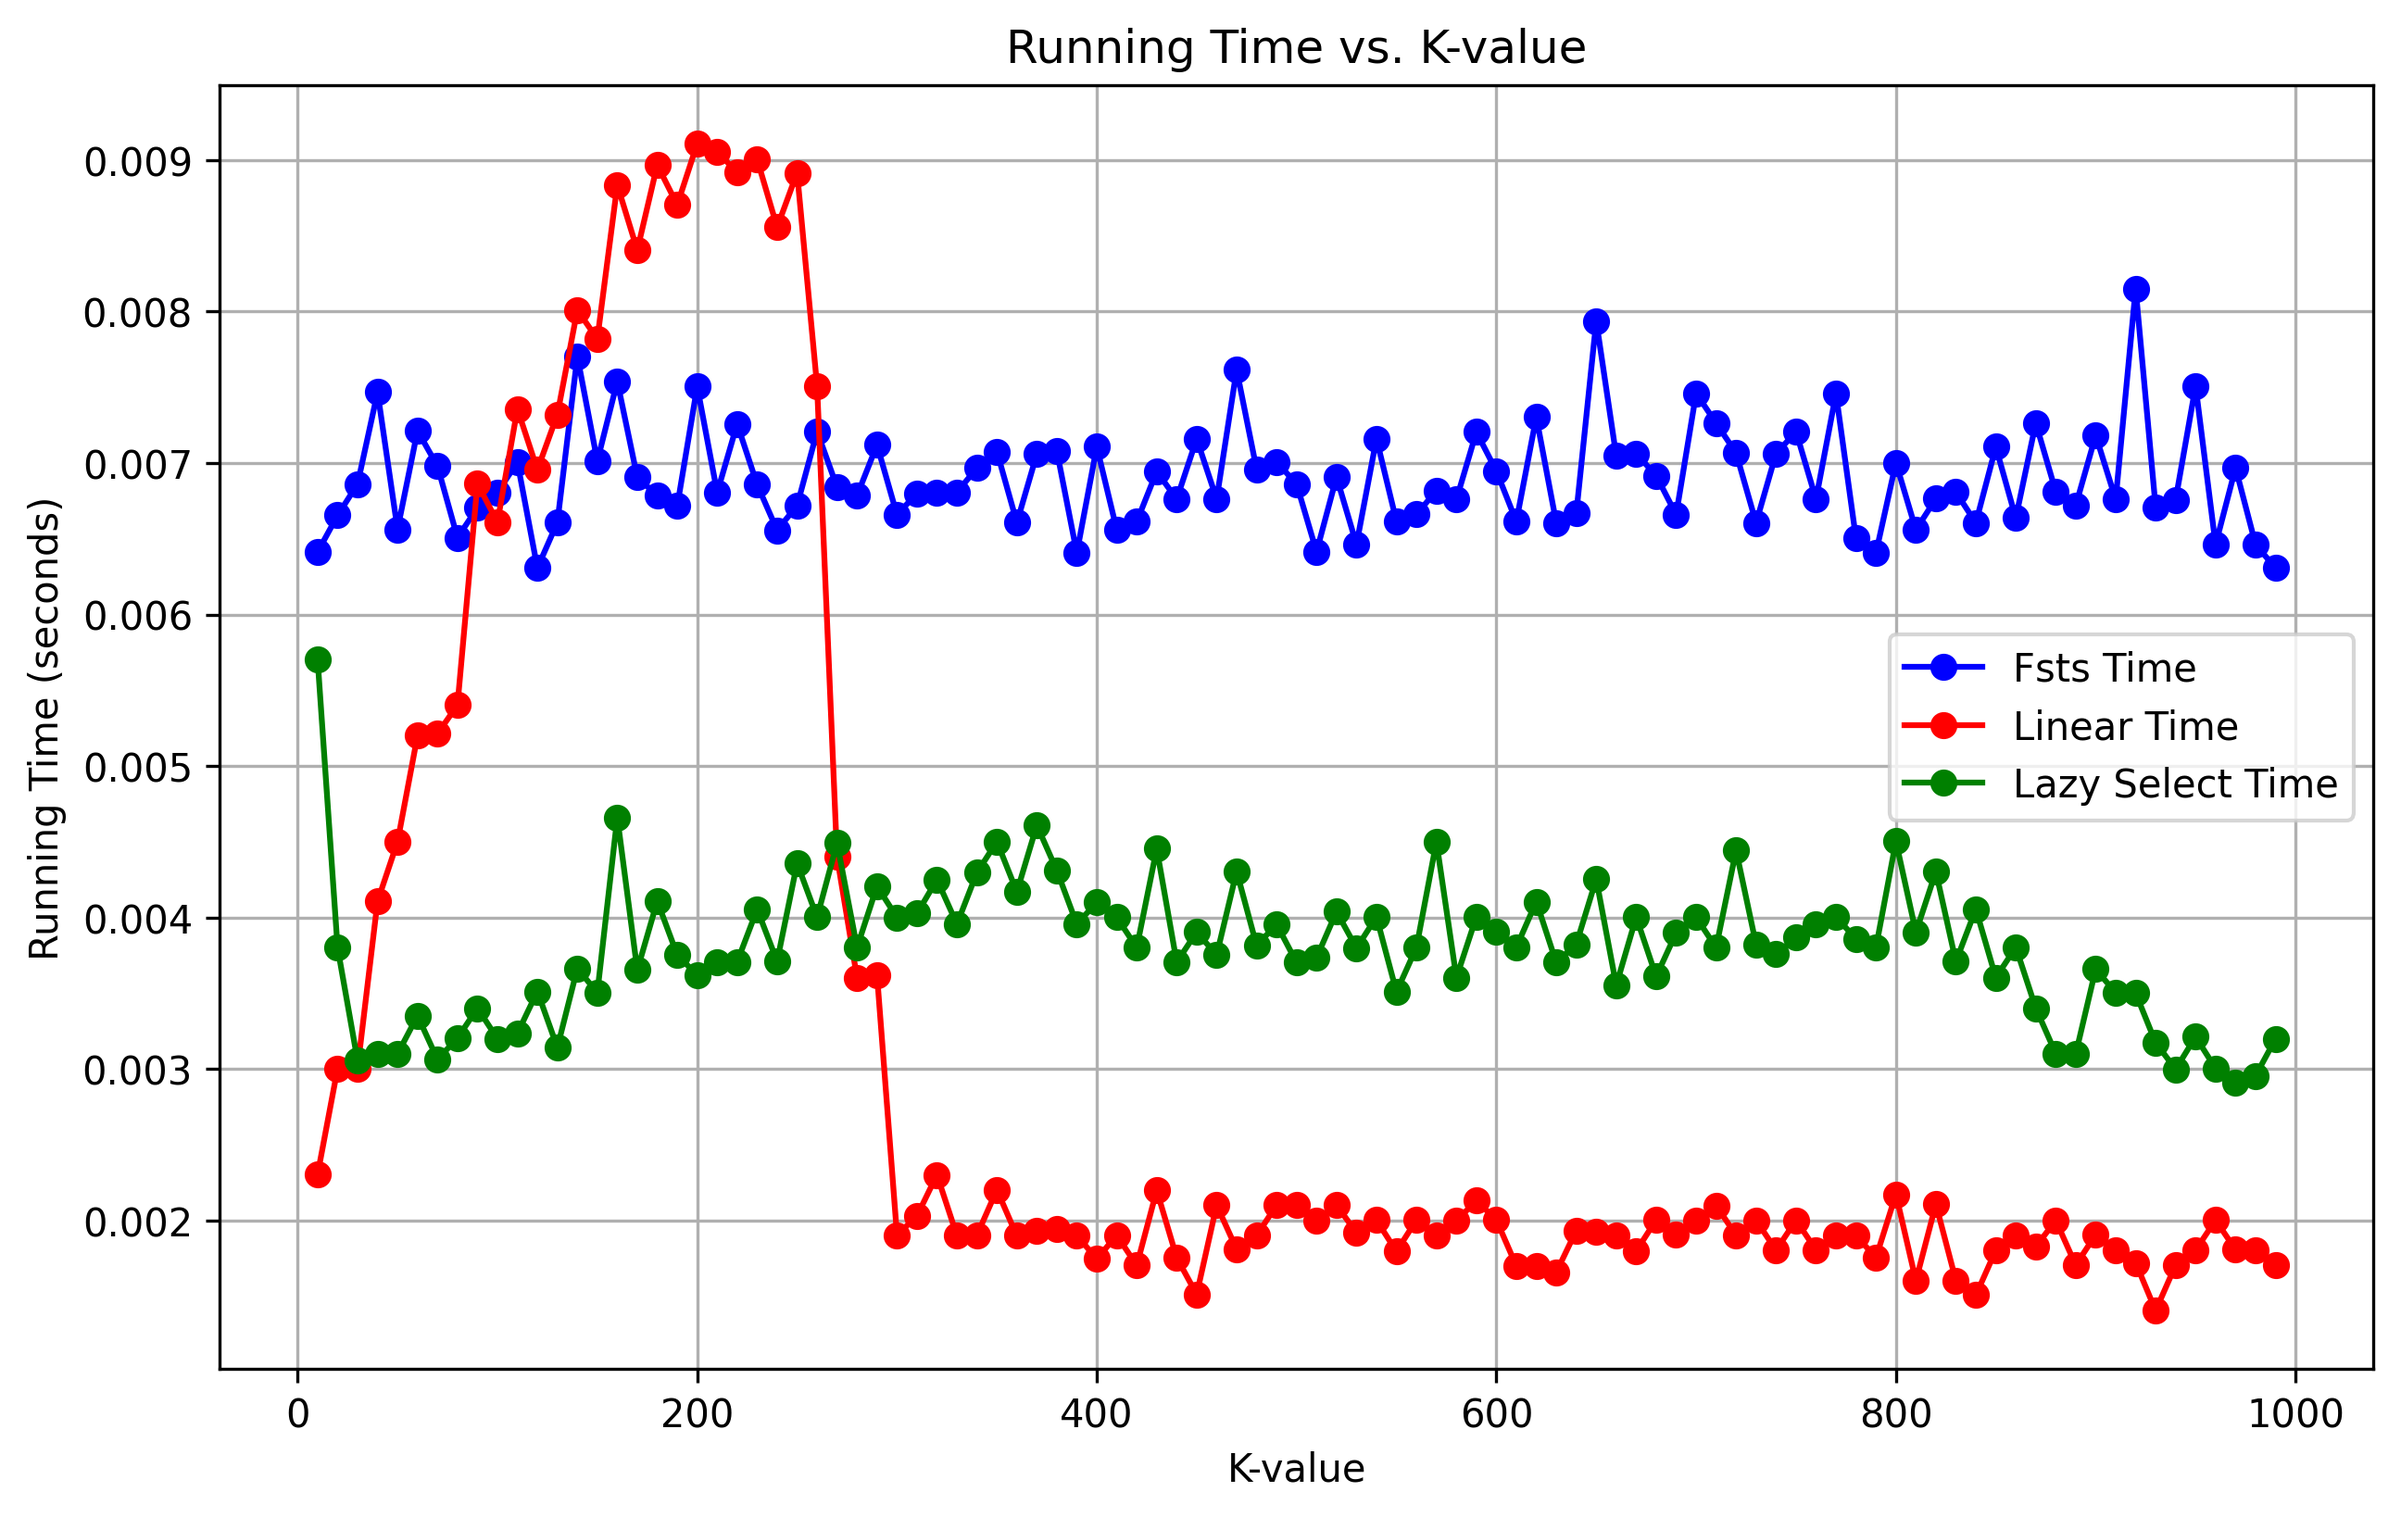
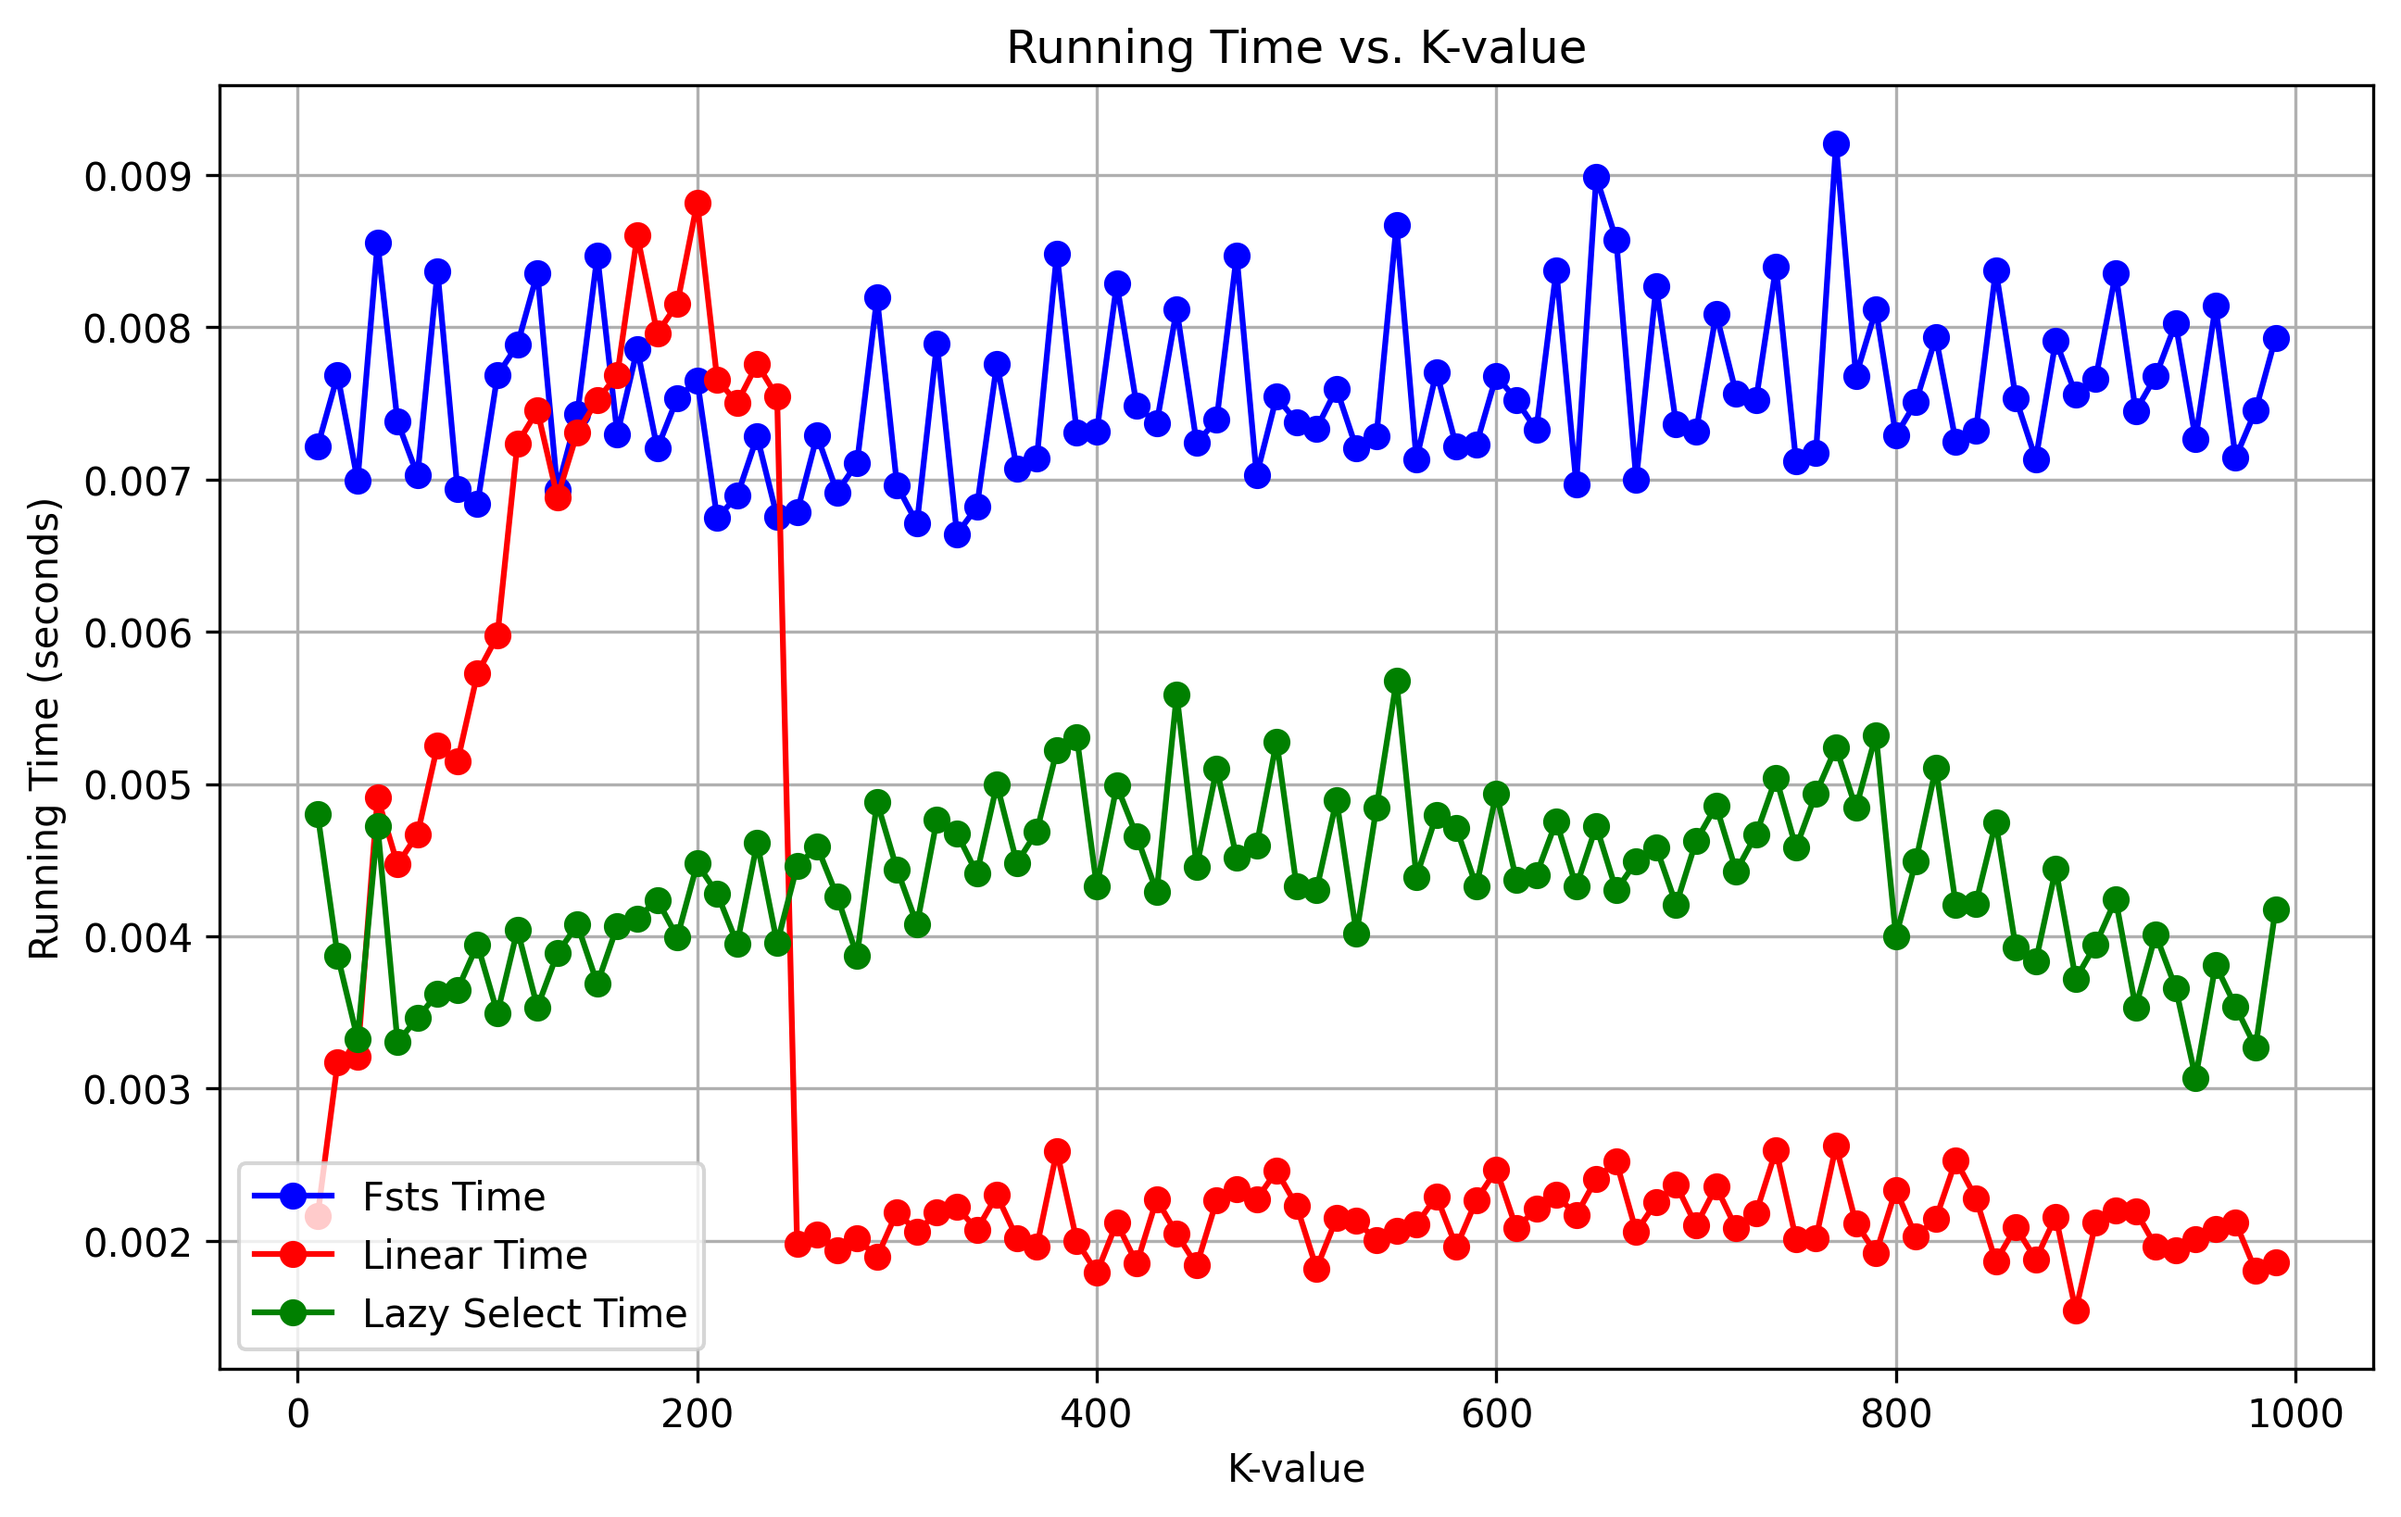
update

diff --git a/Lab2/createData.py b/Lab2/createData.py
@@ -6,10 +6,10 @@ class DataGenerator:
         # 生成n个均匀分布、正态分布和Zipf分布的随机数
         # 定义 self.dict 字典，存储三种分布的 n 个随机数
         # uniform：生成 n 个均匀分布的随机数，范围为 [1, 1000]
-        # normal：生成 n 个正态分布的随机数，均值为 500，标准差为 200
+        # normal：生成 n 个正态分布的随机数，均值为 500，标准差为 100
         # zipf：生成 n 个 Zipf 分布的随机数，参数为 1.2
         self.dict = {"uniform": np.random.uniform(1, 1001, n).astype(int).tolist(),
-                     "normal": np.random.normal(500, 200, n).astype(int).tolist(),
+                     "normal": np.random.normal(500, 100, n).astype(int).tolist(),
                      "zipf": np.random.zipf(1.2, n).astype(int).tolist()}
     # --------------- 加载函数 --------------- #
     def load(self):
